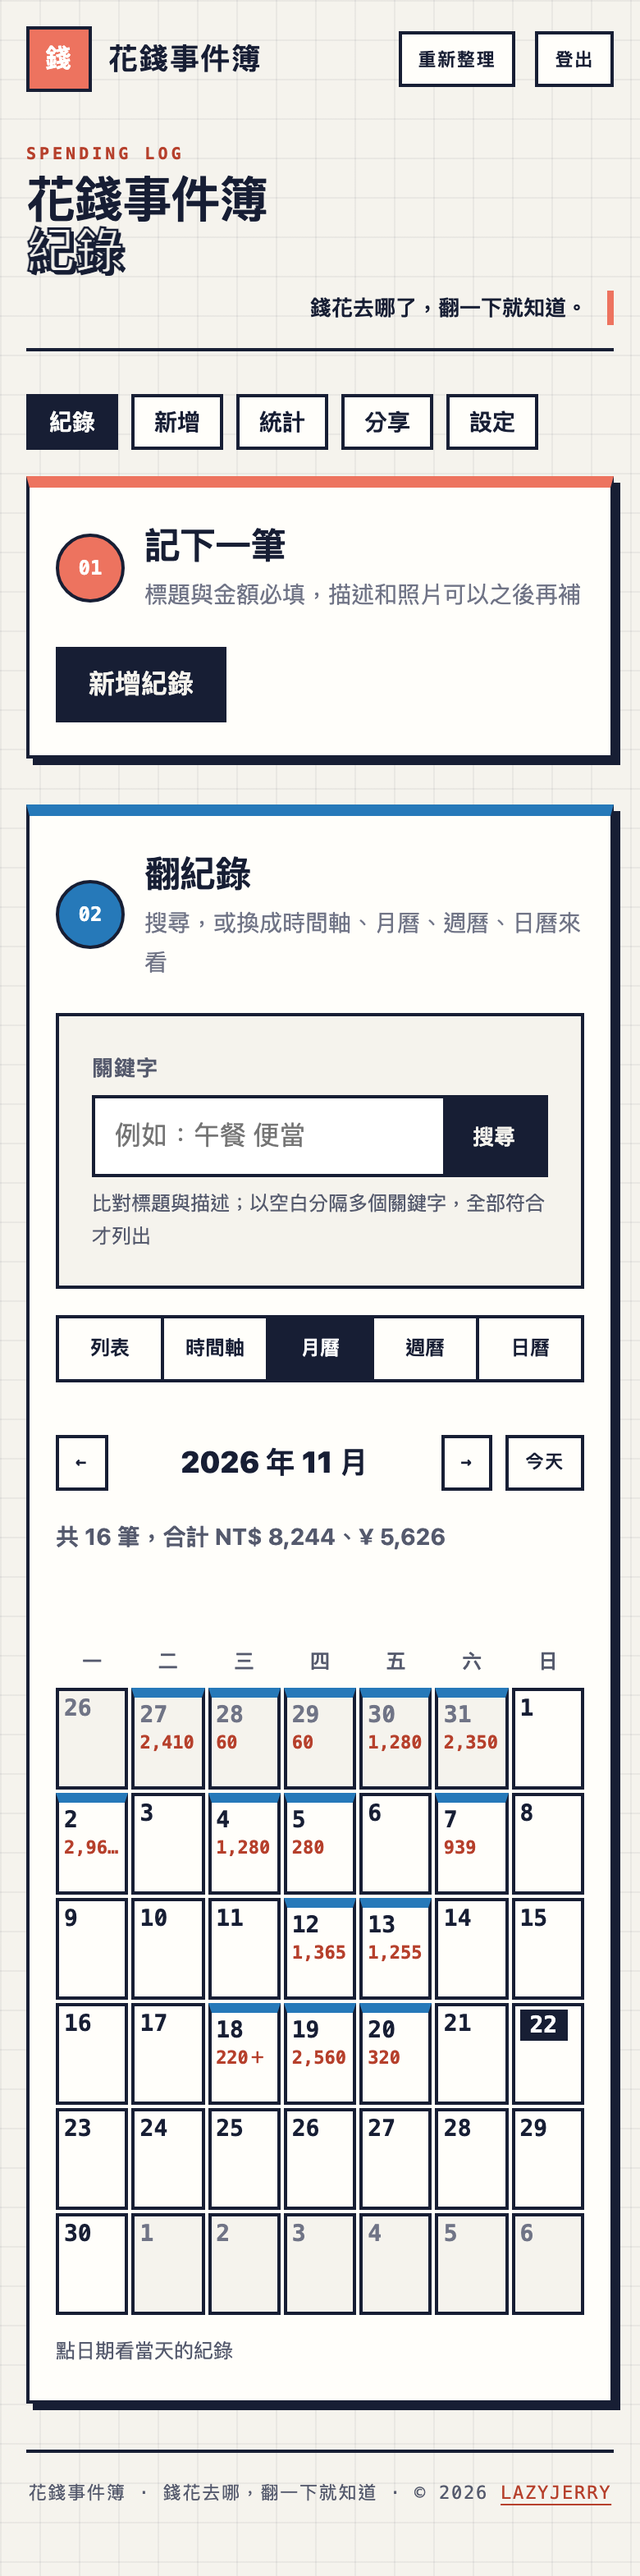
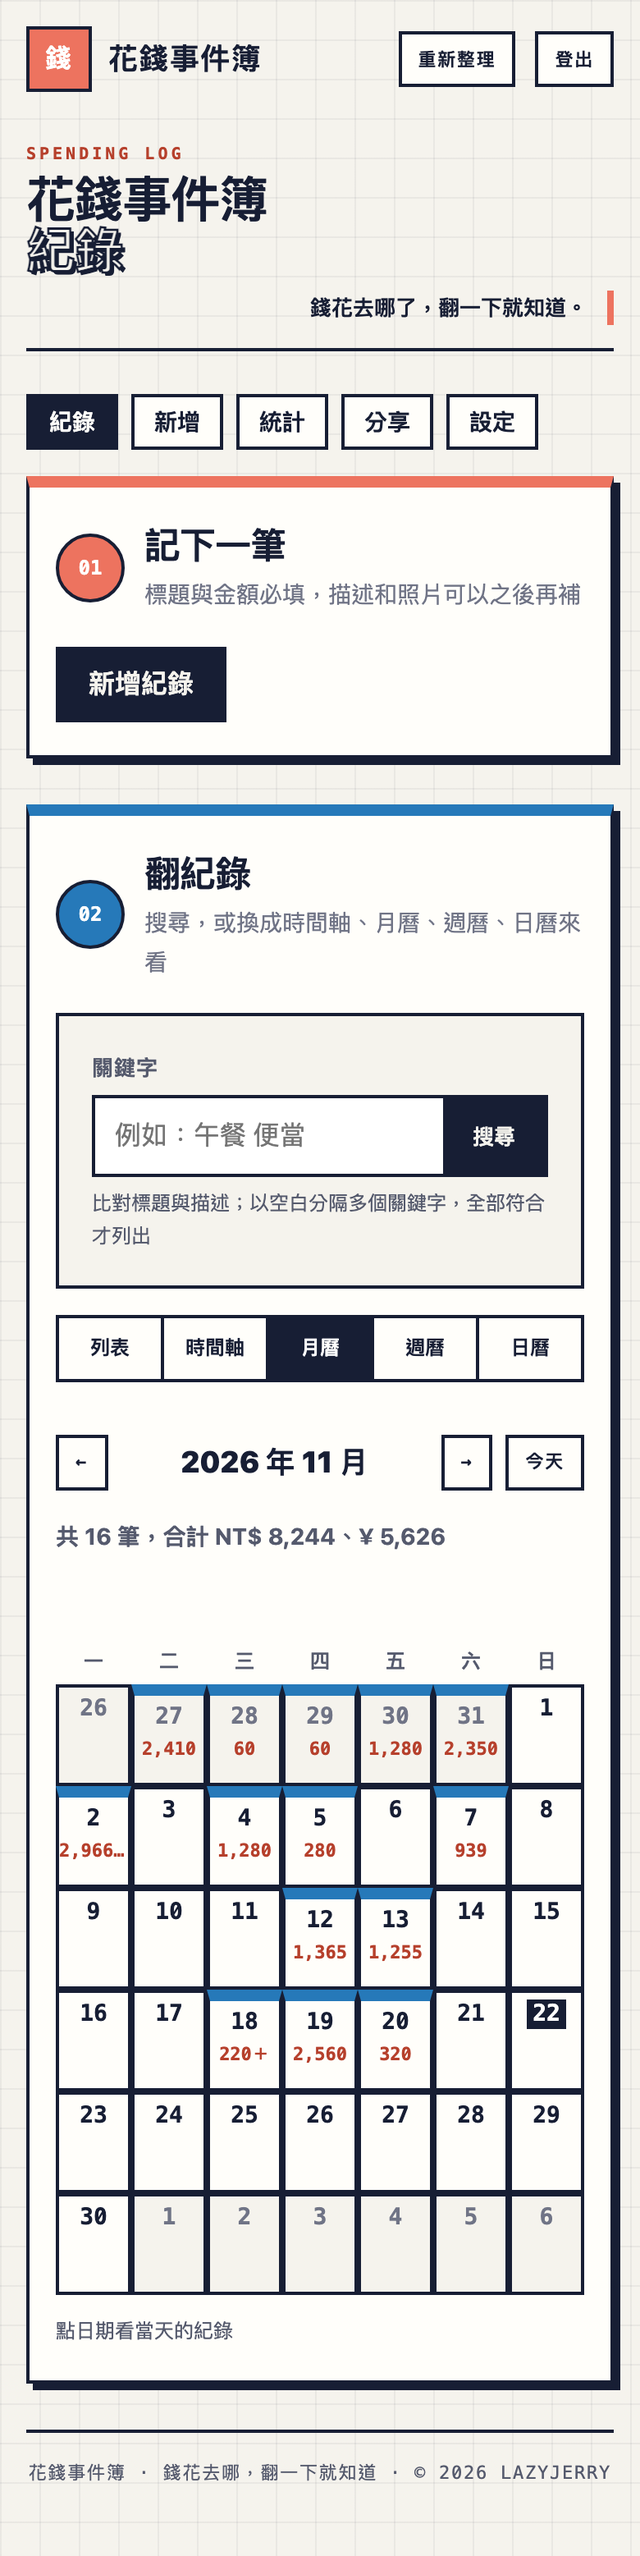
style: 畫面照 Jerry UI 規範修正，規範檢查接進 check
- 頁尾改回 L3:mono 原樣；分享頁空白提示改用 F6 結果區
- 統計總覽改回 X5 原樣，補「每筆中位數」
- app.css 的行高、字型、框線改用 token，不再覆寫元件庫 class；
  時間軸節點改方塊；手機月曆的金額不再被截斷
- scripts/check.sh 先重產頁面，再跑 jerry-ui.py check（沒裝 skill 時略過）
- AGENTS.md 寫明成品是 Worker、skill 只當畫面規範

diff --git a/public/app.css b/public/app.css
@@ -39,15 +39,15 @@
 
 /* 時間軸：左側一條墨色直線，一天一個珊瑚色節點，底下是當天的紀錄 */
 .app-timeline, .app-tl-items { margin: 0; padding: 0; list-style: none; }
-.app-timeline { position: relative; display: grid; gap: var(--space-5); padding-left: 36px; }
-.app-timeline::before { content: ""; position: absolute; left: 11px; top: 10px; bottom: 0; width: 2px; background: var(--ink); }
+.app-timeline { position: relative; display: grid; gap: var(--space-5); padding-left: var(--space-7); }
+.app-timeline::before { content: ""; position: absolute; left: 9px; top: 10px; bottom: 0; width: 2px; background: var(--ink); }
 .app-tl-day { position: relative; display: grid; gap: var(--space-3); min-width: 0; }
-.app-tl-day::before { content: ""; position: absolute; left: -36px; top: 2px; width: 20px; height: 20px; background: var(--coral); border: var(--line); border-radius: 50%; }
+.app-tl-day::before { content: ""; position: absolute; left: -40px; top: 2px; width: 20px; height: 20px; background: var(--coral); border: var(--line); }
 .app-tl-date { display: flex; flex-wrap: wrap; align-items: baseline; gap: var(--space-1) var(--space-3); margin: 0; font-size: var(--fs-lg); font-weight: var(--fw-black); }
 .app-tl-date span { color: var(--ink-2); font-size: var(--fs-sm); font-weight: var(--fw-bold); }
 .app-tl-items { display: grid; gap: var(--space-3); }
 .app-tl-item { position: relative; display: grid; grid-template-columns: 3.4em minmax(0, 1fr); gap: var(--space-2); align-items: start; }
-.app-tl-item::before { content: ""; position: absolute; left: -29px; top: 14px; width: 8px; height: 8px; background: var(--ink); border-radius: 50%; }
+.app-tl-item::before { content: ""; position: absolute; left: -34px; top: 14px; width: 8px; height: 8px; background: var(--ink); }
 .app-tl-item time { padding-top: var(--space-3); color: var(--ink-2); font: var(--fw-bold) var(--fs-sm)/var(--lh-snug) var(--mono); }
 .app-tl-card { display: grid; gap: var(--space-2); min-width: 0; padding: var(--space-3) var(--space-4); background: var(--card); border: var(--line); }
 .app-tl-photo { display: block; max-width: 240px; }
@@ -56,25 +56,26 @@
 /* 月曆 */
 .app-cal { display: grid; grid-template-columns: repeat(7, minmax(0, 1fr)); gap: var(--space-1); }
 .app-cal-head { padding: var(--space-1) 0; color: var(--ink-2); font-size: var(--fs-xs); font-weight: var(--fw-heavy); text-align: center; }
-.app-cal-day { display: flex; flex-direction: column; align-items: flex-start; gap: 2px; min-width: 0; min-height: 76px; padding: var(--space-1) 6px; color: var(--ink); background: var(--card); border: var(--line); font: inherit; text-align: left; cursor: pointer; overflow: hidden; }
+.app-cal-day { display: flex; flex-direction: column; align-items: flex-start; gap: var(--space-1); min-width: 0; min-height: 76px; padding: var(--space-1) var(--space-2); color: var(--ink); background: var(--card); border: var(--line); font: inherit; text-align: left; cursor: pointer; overflow: hidden; }
 .app-cal-day:hover { box-shadow: var(--shadow-sm); }
 .app-cal-day:focus-visible { outline: var(--focus); outline-offset: 2px; }
 .app-cal-day.app-is-outside { color: var(--muted); background: var(--paper); }
-.app-cal-day.app-has-items { border-top: 6px solid var(--blue); }
-.app-cal-num { font: var(--fw-heavy) var(--fs-sm)/1.2 var(--mono); }
-.app-cal-day.app-is-today .app-cal-num { padding: 1px 6px; color: var(--white); background: var(--ink); }
-.app-cal-amount { max-width: 100%; color: var(--coral-ink); font: var(--fw-heavy) var(--fs-2xs)/1.3 var(--mono); overflow: hidden; text-overflow: ellipsis; white-space: nowrap; }
-.app-cal-count { color: var(--ink-2); font-size: var(--fs-2xs); line-height: 1.3; white-space: nowrap; }
+.app-cal-day.app-has-items { border-top: var(--accent-bar) solid var(--blue); }
+.app-cal-num { font: var(--fw-heavy) var(--fs-sm)/var(--lh-tight) var(--mono); }
+.app-cal-day.app-is-today .app-cal-num { padding: 0 var(--space-1); color: var(--white); background: var(--ink); }
+.app-cal-amount { max-width: 100%; color: var(--coral-ink); font: var(--fw-heavy) var(--fs-2xs)/var(--lh-tight) var(--mono); overflow: hidden; text-overflow: ellipsis; white-space: nowrap; }
+.app-cal-count { color: var(--ink-2); font-size: var(--fs-2xs); line-height: var(--lh-tight); white-space: nowrap; }
 
 /* 週曆：桌機七欄，手機一天一列 */
 .app-week { display: grid; grid-template-columns: repeat(7, minmax(0, 1fr)); gap: var(--space-2); }
 .app-week-day { display: grid; gap: var(--space-2); align-content: start; min-width: 0; padding: var(--space-2); background: var(--card); border: var(--line); }
-.app-week-day.app-is-today { border-top: 6px solid var(--coral); }
+.app-week-day.app-is-today { border-top: var(--accent-bar) solid var(--coral); }
 .app-week-day h3 { margin: 0; font-size: var(--fs-sm); }
-.app-week-day h3 .btn { color: var(--ink); font-weight: var(--fw-black); }
+.app-week-link { padding: 0; color: var(--ink); background: none; border: 0; font-family: inherit; font-size: inherit; font-weight: var(--fw-black); cursor: pointer; }
+.app-week-link:hover { text-decoration: underline; }
 .app-week-total { margin: 0; color: var(--coral-ink); font: var(--fw-heavy) var(--fs-xs)/var(--lh-snug) var(--mono); overflow-wrap: anywhere; }
 .app-week-items { display: grid; gap: var(--space-2); margin: 0; padding: 0; list-style: none; }
-.app-week-items a { display: grid; gap: 2px; padding: var(--space-1) 6px; color: var(--ink); background: var(--paper); border-left: var(--accent-bar) solid var(--blue); font-size: var(--fs-xs); line-height: var(--lh-snug); text-decoration: none; overflow-wrap: anywhere; }
+.app-week-items a { display: grid; gap: 0; padding: var(--space-1) var(--space-2); color: var(--ink); background: var(--paper); border-left: var(--accent-bar) solid var(--blue); font-size: var(--fs-xs); line-height: var(--lh-snug); text-decoration: none; overflow-wrap: anywhere; }
 .app-week-items a:hover, .app-week-items a:focus-visible { text-decoration: underline; }
 .app-week-items time { color: var(--ink-2); font-family: var(--mono); }
 .app-week-items strong { font-family: var(--mono); }
@@ -86,16 +87,13 @@
 .app-photo figcaption { display: flex; flex-wrap: wrap; align-items: center; justify-content: space-between; gap: var(--space-2); color: var(--ink-2); font-size: var(--fs-sm); }
 
 /* 統計 */
-.app-kpi { grid-template-columns: repeat(auto-fit, minmax(150px, 1fr)); }
-.app-kpi .stat.is-total { grid-column: auto; }
-.app-kpi .stat dd { font-size: clamp(18px, 2.6vw, 26px); line-height: 1.2; overflow-wrap: anywhere; }
 .app-chart { min-width: 0; }
 .app-chart svg { display: block; overflow: visible; }
 .app-chart-empty { margin: 0; padding: var(--space-5) 0; color: var(--muted); font-size: var(--fs-sm); text-align: center; }
 .app-chart-grid { stroke: var(--track); stroke-width: 1; }
 .app-chart-axis { stroke: var(--ink); stroke-width: 2; }
-.app-chart-tick { fill: var(--ink-2); font: 600 11px/1 var(--mono); }
-.app-chart-value { fill: var(--ink); font: 800 12px/1 var(--mono); }
+.app-chart-tick { fill: var(--ink-2); font: var(--fw-bold) var(--fs-2xs)/var(--lh-tight) var(--mono); }
+.app-chart-value { fill: var(--ink); font: var(--fw-heavy) var(--fs-xs)/var(--lh-tight) var(--mono); }
 .app-chart-fill { fill: var(--blue); }
 .app-chart-hit { fill: transparent; }
 .app-chart-bar:hover .app-chart-fill { fill: var(--ink); }
@@ -103,23 +101,23 @@
 .app-chart-data summary { cursor: pointer; color: var(--coral-ink); font-size: var(--fs-sm); font-weight: var(--fw-bold); }
 .app-chart-data > div { max-height: 320px; margin-top: var(--space-2); overflow: auto; border: var(--line); }
 .app-table { width: 100%; border-collapse: collapse; font-size: var(--fs-sm); }
-.app-table th, .app-table td { padding: var(--space-2) var(--space-3); border-bottom: 1px solid var(--track); text-align: right; white-space: nowrap; }
+.app-table th, .app-table td { padding: var(--space-2) var(--space-3); border-bottom: var(--line); text-align: right; white-space: nowrap; }
 .app-table th:first-child { text-align: left; }
 .app-table thead th { position: sticky; top: 0; background: var(--paper); font-weight: var(--fw-heavy); }
 .app-table td { font-family: var(--mono); }
 .app-rank { display: grid; gap: var(--space-2); margin: 0; padding: 0; list-style: none; counter-reset: rank; }
 .app-rank li { display: grid; grid-template-columns: 2em minmax(0, 1fr) auto; gap: 0 var(--space-3); align-items: baseline; padding: var(--space-2) var(--space-3); background: var(--card); border: var(--line); counter-increment: rank; }
-.app-rank li::before { content: counter(rank); grid-row: span 2; color: var(--ink-2); font: var(--fw-heavy) var(--fs-lg)/1.4 var(--mono); }
+.app-rank li::before { content: counter(rank); grid-row: span 2; color: var(--ink-2); font: var(--fw-heavy) var(--fs-lg)/var(--lh-snug) var(--mono); }
 .app-rank a { color: var(--ink); font-weight: var(--fw-bold); overflow-wrap: anywhere; }
 .app-rank .app-amount { grid-row: 1 / span 2; grid-column: 3; align-self: center; }
-.app-rank .meta { grid-column: 2; }
+.app-rank-meta { grid-column: 2; color: var(--ink-2); font-size: var(--fs-sm); }
 .app-rank .app-rank-empty { display: block; color: var(--muted); font-size: var(--fs-sm); counter-increment: none; }
 .app-rank .app-rank-empty::before { content: none; }
 
 /* 分享 */
 .app-canvas { display: block; width: 100%; max-height: 75vh; height: auto; object-fit: contain; background: var(--paper); border: var(--line); }
 .app-canvas[hidden], .app-share-text[hidden] { display: none; }
-.app-share-text { display: block; width: 100%; min-height: 320px; padding: var(--space-3); color: var(--ink); background: var(--white); border: var(--line); font: var(--fs-sm)/1.7 var(--font); resize: vertical; }
+.app-share-text { display: block; width: 100%; min-height: 320px; padding: var(--space-3); color: var(--ink); background: var(--white); border: var(--line); font: var(--fs-sm)/var(--lh-body) var(--font); resize: vertical; }
 
 /* 通行金鑰清單（設定頁） */
 .app-key-list { display: grid; gap: var(--space-3); margin: 0; padding: 0; list-style: none; }
@@ -133,21 +131,21 @@
 .app-setup-note a { color: var(--coral-ink); font-weight: var(--fw-bold); }
 
 /* 右上角 toast */
-.app-toast { position: fixed; top: max(var(--space-4), env(safe-area-inset-top)); right: var(--space-4); z-index: 1100; max-width: min(360px, calc(100vw - 2 * var(--space-4))); margin: 0; padding: var(--space-3) var(--space-4); color: var(--ink); background: var(--card); border: var(--line); border-left: var(--accent-bar) solid var(--green); box-shadow: var(--shadow-sm); font-size: var(--fs-sm); font-weight: var(--fw-bold); line-height: 1.5; overflow-wrap: anywhere; pointer-events: none; opacity: 0; transform: translateY(-8px); transition: opacity 0.2s ease, transform 0.2s ease; }
+.app-toast { position: fixed; top: max(var(--space-4), env(safe-area-inset-top)); right: var(--space-4); z-index: 1100; max-width: min(360px, calc(100vw - 2 * var(--space-4))); margin: 0; padding: var(--space-3) var(--space-4); color: var(--ink); background: var(--card); border: var(--line); border-left: var(--accent-bar) solid var(--green); box-shadow: var(--shadow-sm); font-size: var(--fs-sm); font-weight: var(--fw-bold); line-height: var(--lh-snug); overflow-wrap: anywhere; pointer-events: none; opacity: 0; transform: translateY(-8px); transition: opacity 0.2s ease, transform 0.2s ease; }
 .app-toast.is-shown { opacity: 1; transform: none; }
 
 @media (max-width: 760px) {
   .app-record.app-has-photo { grid-template-columns: 84px minmax(0, 1fr); gap: var(--space-3); }
   .app-record { padding: var(--space-3); }
   .app-week { grid-template-columns: minmax(0, 1fr); }
-  .app-cal { gap: 2px; }
-  .app-cal-day { min-height: 62px; padding: 2px 3px; }
+  .app-cal { gap: 0; }
+  .app-cal-day { align-items: center; min-height: 62px; padding: var(--space-1) 0; }
   .app-cal-count { display: none; }
-  .app-timeline { padding-left: 30px; }
+  .app-timeline { padding-left: var(--space-6); }
   .app-timeline::before { left: 8px; }
-  .app-tl-day::before { left: -30px; width: 18px; height: 18px; }
+  .app-tl-day::before { left: -28px; width: 18px; height: 18px; }
   .app-tl-item { grid-template-columns: minmax(0, 1fr); gap: var(--space-1); }
-  .app-tl-item::before { left: -25px; top: 6px; }
+  .app-tl-item::before { left: -23px; top: 6px; }
   .app-tl-item time { padding-top: 0; }
 }
 @media (prefers-reduced-motion: reduce) {

diff --git a/public/js/stats.js b/public/js/stats.js
@@ -48,10 +48,12 @@ function render() {
   const total = list.reduce((n, r) => n + r.amountMinor, 0);
   const biggest = list.reduce((a, r) => (!a || r.amountMinor > a.amountMinor ? r : a), null);
   const activeDays = new Set(times.map(ymd)).size;
+  const sorted = list.map((r) => r.amountMinor).sort((a, b) => a - b);
+  const median = sorted.length ? (sorted[(sorted.length - 1) >> 1] + sorted[sorted.length >> 1]) / 2 : 0;
   const dd = $("#kpi").querySelectorAll("dd");
   const values = list.length
-    ? [money(total), `${list.length} 筆`, money(round(total / list.length)), money(round(total / dayCount)), `${activeDays} 天`, money(biggest.amountMinor)]
-    : ["—", "0 筆", "—", "—", "0 天", "—"];
+    ? [money(total), `${list.length} 筆`, money(round(total / list.length)), money(round(total / dayCount)), `${activeDays} 天`, money(round(median)), money(biggest.amountMinor)]
+    : ["—", "0 筆", "—", "—", "0 天", "—", "—"];
   dd.forEach((node, i) => {
     node.textContent = values[i];
   });
@@ -110,7 +112,7 @@ function render() {
     ? top
         .map((r) => {
           const at = new Date(r.occurredAt);
-          return `<li><a href="/edit?id=${r.id}">${esc(r.title)}</a><span class="meta">${esc(dateLabel(at))} ${hm(at)}</span><strong class="app-amount">${esc(money(r.amountMinor))}</strong></li>`;
+          return `<li><a href="/edit?id=${r.id}">${esc(r.title)}</a><span class="app-rank-meta">${esc(dateLabel(at))} ${hm(at)}</span><strong class="app-amount">${esc(money(r.amountMinor))}</strong></li>`;
         })
         .join("")
     : '<li class="app-rank-empty">這段範圍沒有紀錄</li>';

diff --git a/public/stats.html b/public/stats.html
@@ -70,12 +70,13 @@
   <span class="index-badge" aria-hidden="true">02</span>
   <div><h2 id="overview-title">總覽</h2><p id="overview-range">範圍內的筆數與花費</p></div>
 </div>
-<dl class="stats app-kpi" id="kpi" aria-live="polite">
+<dl class="stats" id="kpi" aria-live="polite">
   <div class="stat is-total"><dt>總花費</dt><dd>—</dd></div>
   <div class="stat"><dt>筆數</dt><dd>—</dd></div>
   <div class="stat"><dt>平均每筆</dt><dd>—</dd></div>
   <div class="stat"><dt>平均每天</dt><dd>—</dd></div>
   <div class="stat"><dt>有花錢的天數</dt><dd>—</dd></div>
+  <div class="stat"><dt>每筆中位數</dt><dd>—</dd></div>
   <div class="stat"><dt>最大一筆</dt><dd>—</dd></div>
 </dl></section>
 <section class="card accent-violet is-roomy is-wide" aria-labelledby="trend-title"><div class="card-heading">
@@ -100,7 +101,7 @@
 </div>
 <ol class="app-rank" id="top-list"></ol></section></div></div>
 </main>
-<footer class="site-foot is-mono">花錢事件簿 · 錢花去哪，翻一下就知道 · © 2026 <a href="https://github.com/lazyjerry/spendbook" target="_blank" rel="noopener">lazyjerry</a></footer>
+<footer class="site-foot is-mono">花錢事件簿 · 錢花去哪，翻一下就知道 · © 2026 lazyjerry</footer>
 </div>
 <img class="jerry-mark" src="jerry.png" width="1" height="1" alt="" aria-hidden="true">
 </body>

diff --git a/public/share.html b/public/share.html
@@ -76,11 +76,11 @@
 </div>
 <div class="stack"><img class="app-canvas" id="share-image" alt="分享圖預覽" hidden>
 <textarea class="app-share-text" id="share-text" readonly aria-label="分享文字" hidden></textarea>
-<p class="result" id="share-empty" data-empty="這段範圍沒有紀錄"></p>
+<output class="result" id="share-empty" aria-live="polite" data-empty="這段範圍沒有紀錄"></output>
 <div class="actions"><button class="btn" type="button" id="share-btn" disabled>分享</button><button class="btn secondary" type="button" id="download-btn" disabled>下載圖片</button><button class="btn secondary" type="button" id="copy-btn" disabled hidden>複製文字</button></div>
 <p class="status" id="action-status" role="status"></p></div></section></div></div>
 </main>
-<footer class="site-foot is-mono">花錢事件簿 · 錢花去哪，翻一下就知道 · © 2026 <a href="https://github.com/lazyjerry/spendbook" target="_blank" rel="noopener">lazyjerry</a></footer>
+<footer class="site-foot is-mono">花錢事件簿 · 錢花去哪，翻一下就知道 · © 2026 lazyjerry</footer>
 </div>
 <img class="jerry-mark" src="jerry.png" width="1" height="1" alt="" aria-hidden="true">
 </body>

diff --git a/public/js/list.js b/public/js/list.js
@@ -183,7 +183,7 @@ function renderWeek(list, p) {
     const key = ymd(d);
     const items = (days.get(key) || []).slice().reverse(); // 當天由早到晚
     cols.push(`<section class="app-week-day${key === today ? " app-is-today" : ""}">
-  <h3><button type="button" class="btn is-link" data-day="${key}">${d.getMonth() + 1}/${d.getDate()}（${WEEKDAYS[d.getDay()]}）</button></h3>
+  <h3><button type="button" class="app-week-link" data-day="${key}">${d.getMonth() + 1}/${d.getDate()}（${WEEKDAYS[d.getDay()]}）</button></h3>
   <p class="app-week-total">${items.length ? esc(totalsText(items)) : "—"}</p>
   <ul class="app-week-items">${items.map((r) => `<li><a href="${editUrl(r)}"><time datetime="${esc(r.occurredAt)}">${hm(new Date(r.occurredAt))}</time><span>${esc(r.title)}</span><strong>${esc(formatMoney(r.amountMinor, r.currency))}</strong></a></li>`).join("")}</ul>
 </section>`);

diff --git a/scripts/pages/stats.html b/scripts/pages/stats.html
@@ -28,12 +28,13 @@
   <span class="index-badge" aria-hidden="true">02</span>
   <div><h2 id="overview-title">總覽</h2><p id="overview-range">範圍內的筆數與花費</p></div>
 </div>
-<dl class="stats app-kpi" id="kpi" aria-live="polite">
+<dl class="stats" id="kpi" aria-live="polite">
   <div class="stat is-total"><dt>總花費</dt><dd>—</dd></div>
   <div class="stat"><dt>筆數</dt><dd>—</dd></div>
   <div class="stat"><dt>平均每筆</dt><dd>—</dd></div>
   <div class="stat"><dt>平均每天</dt><dd>—</dd></div>
   <div class="stat"><dt>有花錢的天數</dt><dd>—</dd></div>
+  <div class="stat"><dt>每筆中位數</dt><dd>—</dd></div>
   <div class="stat"><dt>最大一筆</dt><dd>—</dd></div>
 </dl></section>
 <section class="card accent-violet is-roomy is-wide" aria-labelledby="trend-title"><div class="card-heading">

diff --git a/scripts/pages/share.html b/scripts/pages/share.html
@@ -34,6 +34,6 @@
 </div>
 <div class="stack"><img class="app-canvas" id="share-image" alt="分享圖預覽" hidden>
 <textarea class="app-share-text" id="share-text" readonly aria-label="分享文字" hidden></textarea>
-<p class="result" id="share-empty" data-empty="這段範圍沒有紀錄"></p>
+<output class="result" id="share-empty" aria-live="polite" data-empty="這段範圍沒有紀錄"></output>
 <div class="actions"><button class="btn" type="button" id="share-btn" disabled>分享</button><button class="btn secondary" type="button" id="download-btn" disabled>下載圖片</button><button class="btn secondary" type="button" id="copy-btn" disabled hidden>複製文字</button></div>
 <p class="status" id="action-status" role="status"></p></div></section></div>

diff --git a/public/login.html b/public/login.html
@@ -55,7 +55,7 @@
 <button class="btn is-block" type="submit">登入<span class="btn-arrow" aria-hidden="true">→</span></button>
 <p class="status" id="login-status" role="alert"></p></form></div></section></div></div>
 </main>
-<footer class="site-foot is-mono">花錢事件簿 · 錢花去哪，翻一下就知道 · © 2026 <a href="https://github.com/lazyjerry/spendbook" target="_blank" rel="noopener">lazyjerry</a></footer>
+<footer class="site-foot is-mono">花錢事件簿 · 錢花去哪，翻一下就知道 · © 2026 lazyjerry</footer>
 </div>
 <img class="jerry-mark" src="jerry.png" width="1" height="1" alt="" aria-hidden="true">
 </body>

diff --git a/public/index.html b/public/index.html
@@ -76,7 +76,7 @@
 <div class="app-view" id="view"></div>
 <button hidden class="btn secondary" type="button" id="more-btn">載入更多</button></div></section></div></div>
 </main>
-<footer class="site-foot is-mono">花錢事件簿 · 錢花去哪，翻一下就知道 · © 2026 <a href="https://github.com/lazyjerry/spendbook" target="_blank" rel="noopener">lazyjerry</a></footer>
+<footer class="site-foot is-mono">花錢事件簿 · 錢花去哪，翻一下就知道 · © 2026 lazyjerry</footer>
 </div>
 <img class="jerry-mark" src="jerry.png" width="1" height="1" alt="" aria-hidden="true">
 </body>

diff --git a/public/settings.html b/public/settings.html
@@ -122,7 +122,7 @@
 <p class="status" id="account-status" role="status"></p></div></section></div>
 </form></div>
 </main>
-<footer class="site-foot is-mono">花錢事件簿 · 錢花去哪，翻一下就知道 · © 2026 <a href="https://github.com/lazyjerry/spendbook" target="_blank" rel="noopener">lazyjerry</a></footer>
+<footer class="site-foot is-mono">花錢事件簿 · 錢花去哪，翻一下就知道 · © 2026 lazyjerry</footer>
 </div>
 <img class="jerry-mark" src="jerry.png" width="1" height="1" alt="" aria-hidden="true">
 </body>

diff --git a/public/offline.html b/public/offline.html
@@ -42,7 +42,7 @@
 </aside>
 <a class="btn" href="/">重新連線</a></div></section></div></div>
 </main>
-<footer class="site-foot is-mono">花錢事件簿 · 錢花去哪，翻一下就知道 · © 2026 <a href="https://github.com/lazyjerry/spendbook" target="_blank" rel="noopener">lazyjerry</a></footer>
+<footer class="site-foot is-mono">花錢事件簿 · 錢花去哪，翻一下就知道 · © 2026 lazyjerry</footer>
 </div>
 <img class="jerry-mark" src="jerry.png" width="1" height="1" alt="" aria-hidden="true">
 </body>

diff --git a/public/edit.html b/public/edit.html
@@ -95,7 +95,7 @@
 </aside>
 </form></div>
 </main>
-<footer class="site-foot is-mono">花錢事件簿 · 錢花去哪，翻一下就知道 · © 2026 <a href="https://github.com/lazyjerry/spendbook" target="_blank" rel="noopener">lazyjerry</a></footer>
+<footer class="site-foot is-mono">花錢事件簿 · 錢花去哪，翻一下就知道 · © 2026 lazyjerry</footer>
 </div>
 <img class="jerry-mark" src="jerry.png" width="1" height="1" alt="" aria-hidden="true">
 </body>
